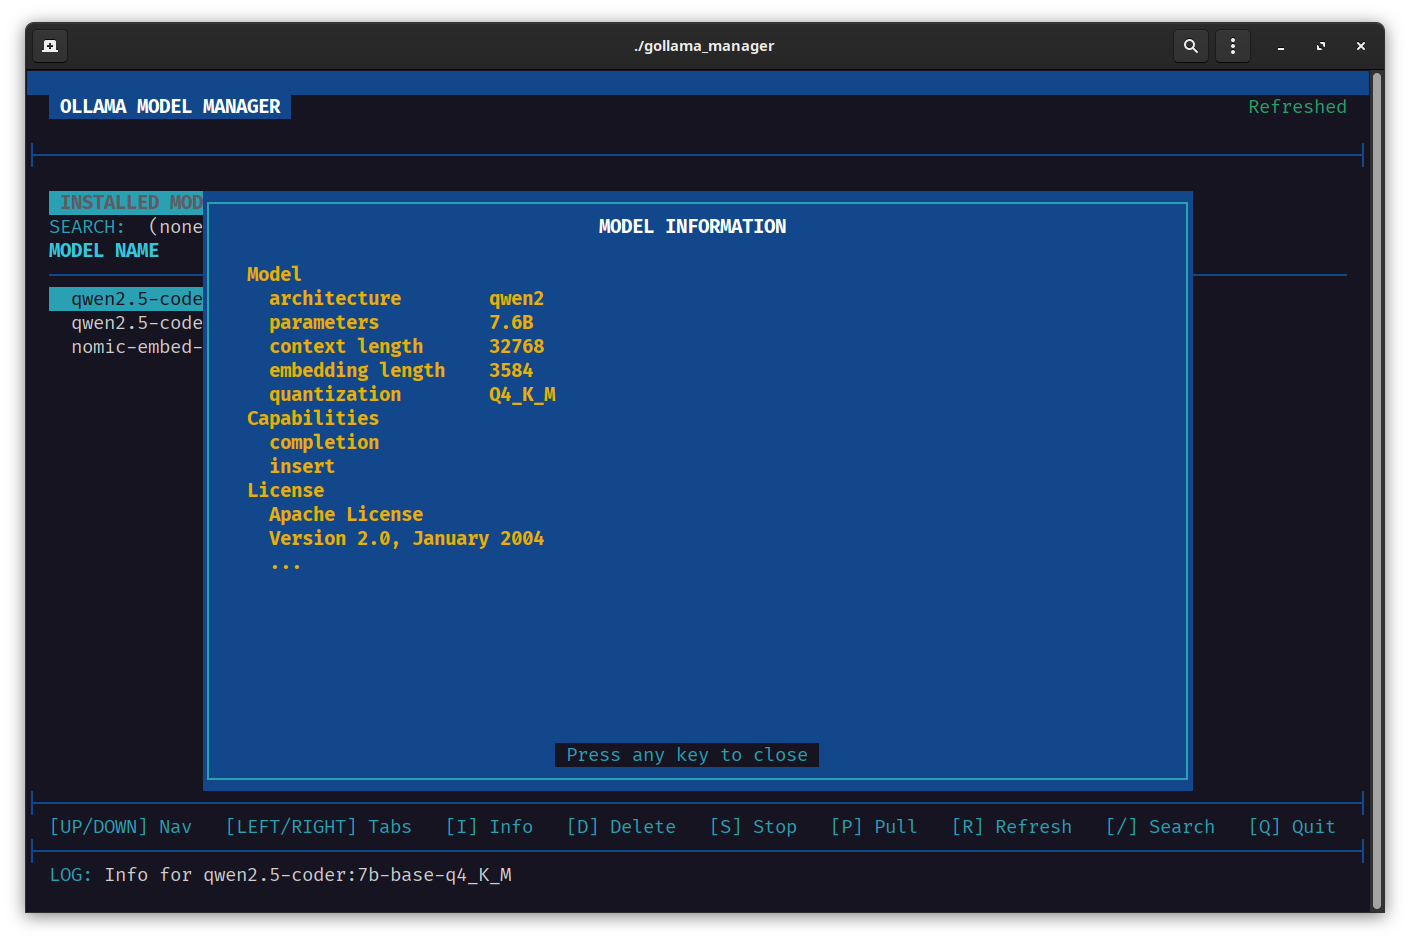
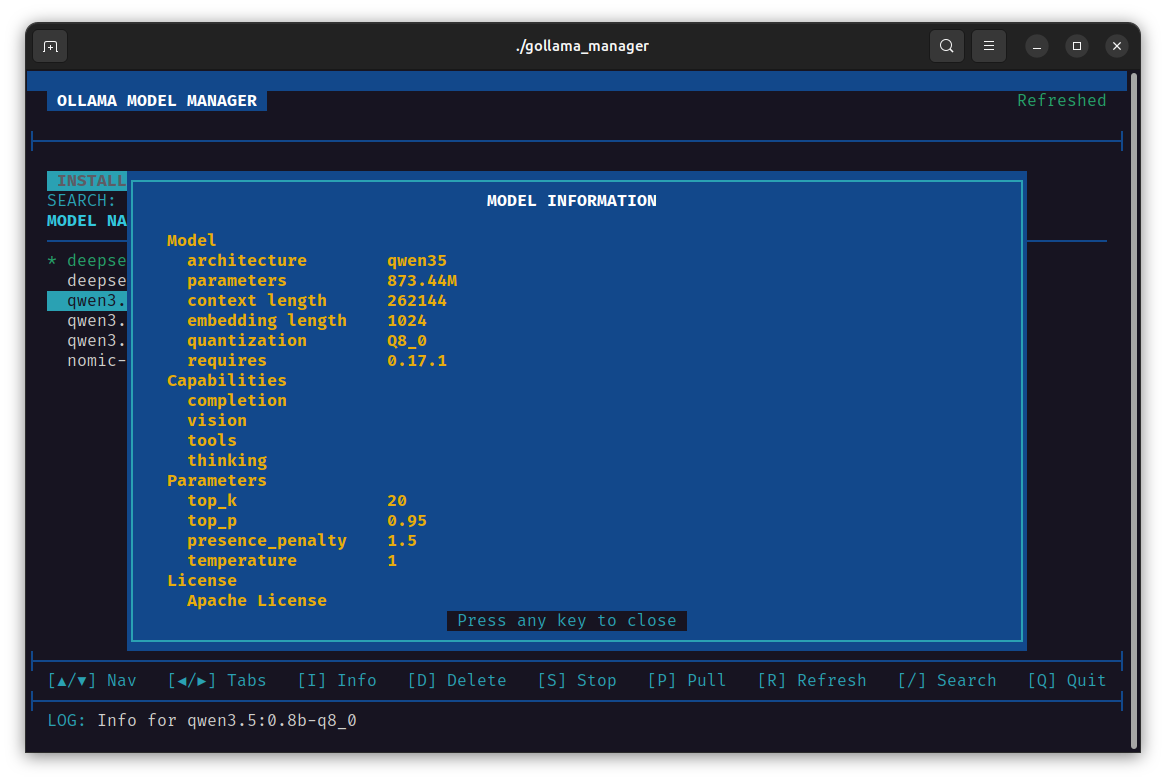
refactor(docs): Add new figures to README

Changed region(s): [[0.0, 0.0, 0.988, 0.9834], [0.3087, 0.6453, 0.3705, 0.7068]]

diff --git a/README.md b/README.md
@@ -20,6 +20,10 @@ A terminal-based user interface (TUI) for managing Ollama models. Built with C a
 
 ![Figure 03](./docs/images/Figure_03.png)
 
+![Figure 04](./docs/images/Figure_04.png)
+
+![Figure 05](./docs/images/Figure_05.png)
+
 ## Requirements
 
 - Linux operating system